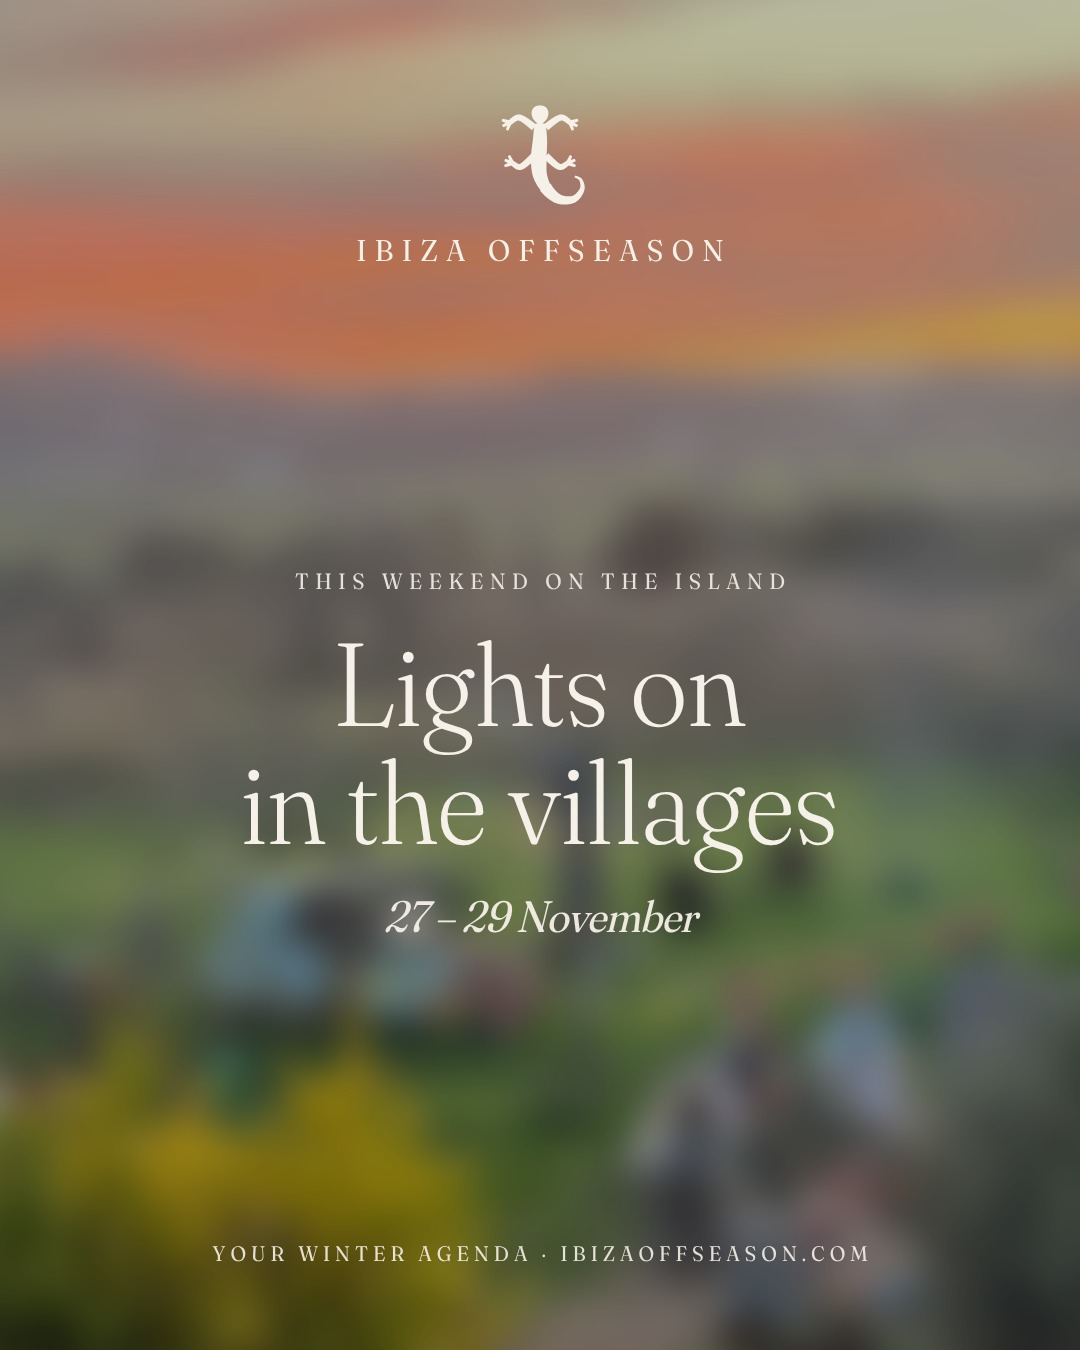
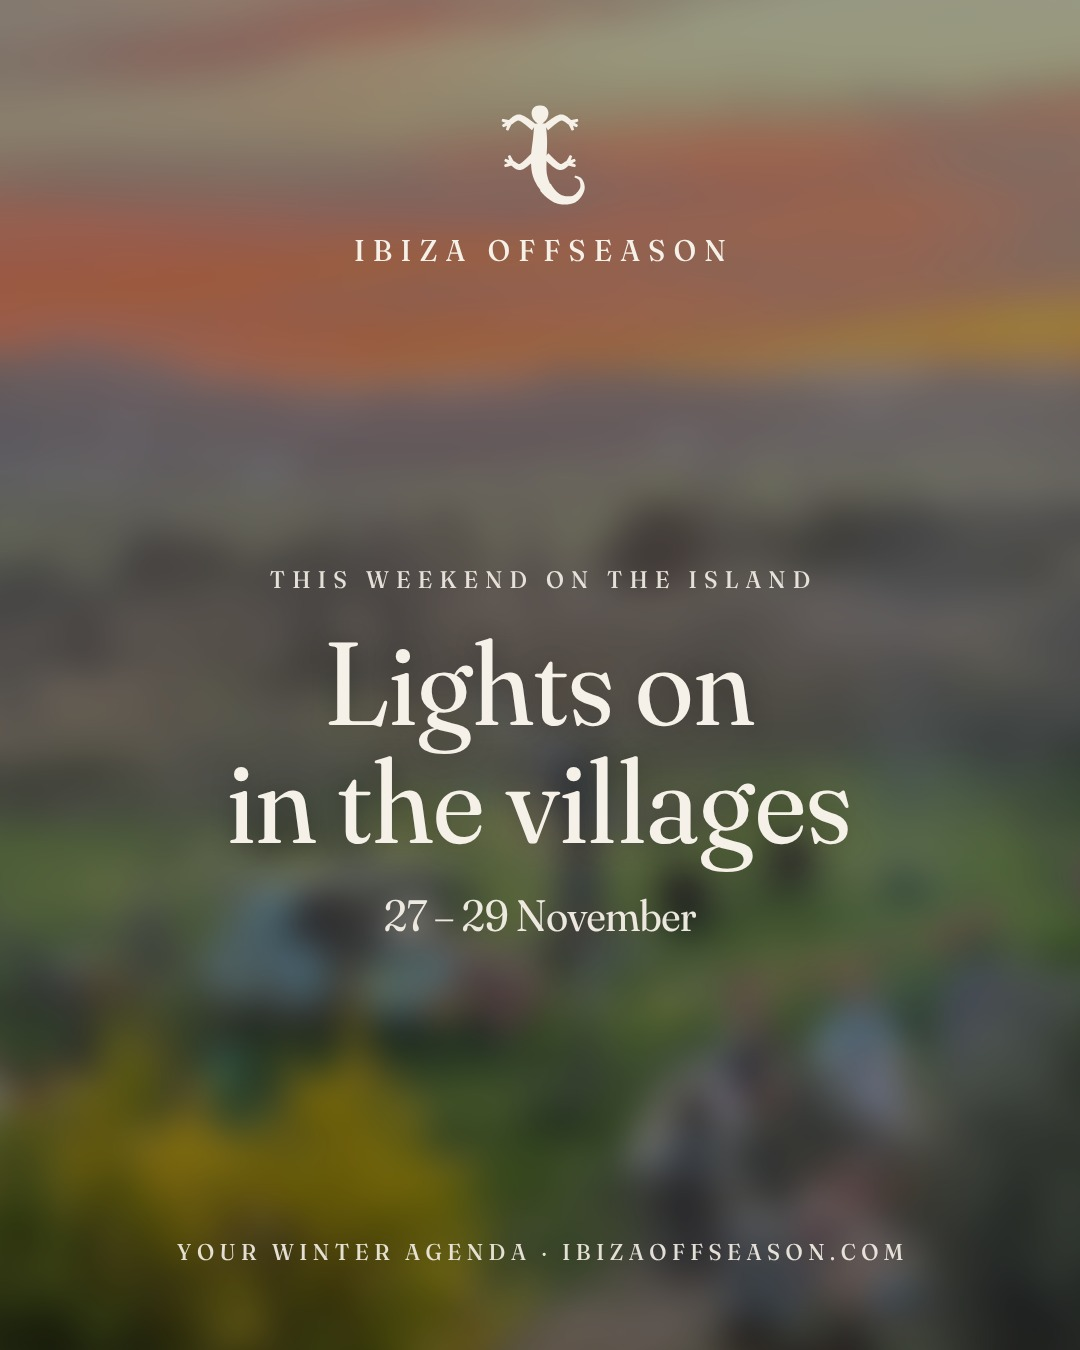
Post template v2: stronger legibility (darker overlay, weight 400, larger labels)
Claude-Session: https://claude.ai/code/session_01RLkfgBqS7dYwe32Vdi7eR1

diff --git a/tools/post-template-v2.html b/tools/post-template-v2.html
@@ -3,23 +3,23 @@
 <style>
 @font-face{font-family:Fraunces;src:url(../img/brand/fonts/fraunces.woff2);font-weight:100 900}
 *{margin:0;box-sizing:border-box}
-:root{--bg:#1F3A4A;--fg:#EADFC6;--ov:.72}
+:root{--bg:#1F3A4A;--fg:#EADFC6;--ov:.6}
 body{width:1080px;height:1350px;background:var(--bg);font-family:Fraunces,serif;font-variation-settings:'opsz' 144,'SOFT' 50,'WONK' 1;color:var(--fg);position:relative;overflow:hidden}
 .photo{position:absolute;inset:-60px;background:var(--photo) var(--pos,center)/cover;filter:blur(var(--blur,18px)) brightness(var(--ov)) saturate(1.05)}
 .in{position:absolute;inset:0;padding:96px 90px 84px;display:flex;flex-direction:column;justify-content:space-between;text-align:center}
 .top{display:flex;flex-direction:column;align-items:center;gap:16px}
 .top svg{width:120px;height:120px;fill:var(--fg)}
-.brand{font-size:30px;letter-spacing:.3em;padding-left:.3em;font-weight:400}
+.brand{font-size:30px;letter-spacing:.3em;padding-left:.3em;font-weight:500}
 .mid{display:flex;flex-direction:column;align-items:center;gap:0}
-.kick{font-size:22px;letter-spacing:.32em;padding-left:.32em;text-transform:uppercase;opacity:.9;margin-bottom:30px}
-h1{font-weight:300;font-size:118px;line-height:1.0;letter-spacing:.01em}
-.sub{font-style:italic;font-size:44px;margin-top:28px;opacity:.95}
+.kick{font-size:24px;font-weight:500;letter-spacing:.32em;padding-left:.32em;text-transform:uppercase;opacity:.9;margin-bottom:30px}
+h1{text-shadow:0 2px 24px rgba(0,0,0,.25);font-weight:400;font-size:118px;line-height:1.0;letter-spacing:.01em}
+.sub{font-size:44px;margin-top:28px;opacity:.95}
 .item{margin:0 0 54px}.item:last-child{margin:0}
-.day{font-size:21px;letter-spacing:.32em;padding-left:.32em;text-transform:uppercase;opacity:.85;margin-bottom:14px}
-h2{font-weight:300;font-size:74px;line-height:1.04}
-.meta{font-style:italic;font-size:34px;margin-top:10px;opacity:.95}
+.day{font-size:23px;font-weight:500;letter-spacing:.32em;padding-left:.32em;text-transform:uppercase;opacity:.85;margin-bottom:14px}
+h2{text-shadow:0 2px 24px rgba(0,0,0,.25);font-weight:400;font-size:74px;line-height:1.04}
+.meta{font-size:36px;margin-top:10px;opacity:.95}
 .rule{width:110px;height:1px;background:var(--fg);opacity:.55;margin:0 auto 54px}
-.bot{font-size:21px;letter-spacing:.26em;padding-left:.26em;text-transform:uppercase;opacity:.9}
+.bot{font-size:23px;font-weight:500;letter-spacing:.26em;padding-left:.26em;text-transform:uppercase;opacity:.9}
 .tag{font-size:21px;letter-spacing:.3em;padding-left:.3em;text-transform:uppercase;opacity:.9;margin-top:34px}
 </style></head><body>
 <div class="photo"></div>

diff --git a/tools/render-post-v2.js b/tools/render-post-v2.js
@@ -9,8 +9,8 @@ const esc=s=>String(s??'').replace(/&/g,'&amp;').replace(/</g,'&lt;').replace(/\
 (async()=>{const specs=JSON.parse(fs.readFileSync(process.argv[2]));const outDir=process.argv[3]||'out';fs.mkdirSync(outDir,{recursive:true});
 const b=await chromium.launch();const p=await b.newPage({viewport:{width:1080,height:1350}});
 for(const s of specs){const [bg,fg]=themes[s.theme||(s.photo?'photo':'diepzee')];
- let css=`:root{--bg:${bg};--fg:${fg};--ov:${s.ov??.72};--blur:${s.blur??18}px;--pos:${s.pos||'center'};--photo:${s.photo?`url(${path.join(root,s.photo)})`:'none'}}`;
- if(!s.photo) css+='.photo{display:none}'; if(s.h1size) css+=`h1{font-size:${s.h1size}px}`;
+ let css=`:root{--bg:${bg};--fg:${fg};--ov:${s.ov??.6};--blur:${s.blur??18}px;--pos:${s.pos||'center'};--photo:${s.photo?`url(${path.join(root,s.photo)})`:'none'}}`;
+ if(!s.photo) css+='.photo{display:none}'; if(s.h1size) css+=`h1{font-size:${s.h1size}px}`; if(s.css) css+=s.css;
  let mid='';
  if(s.kind==='list'){mid=s.items.map((it,i)=>`${i?'<div class="rule"></div>':''}<div class="item"><div class="day">${esc(it.day)}</div><h2>${esc(it.h2)}</h2><div class="meta">${esc(it.meta)}</div></div>`).join('');}
  else{mid=`${s.kick?`<div class="kick">${esc(s.kick)}</div>`:''}<h1>${esc(s.h1)}</h1>${s.sub?`<div class="sub">${esc(s.sub)}</div>`:''}${s.tag?`<div class="tag">${esc(s.tag)}</div>`:''}`;}
